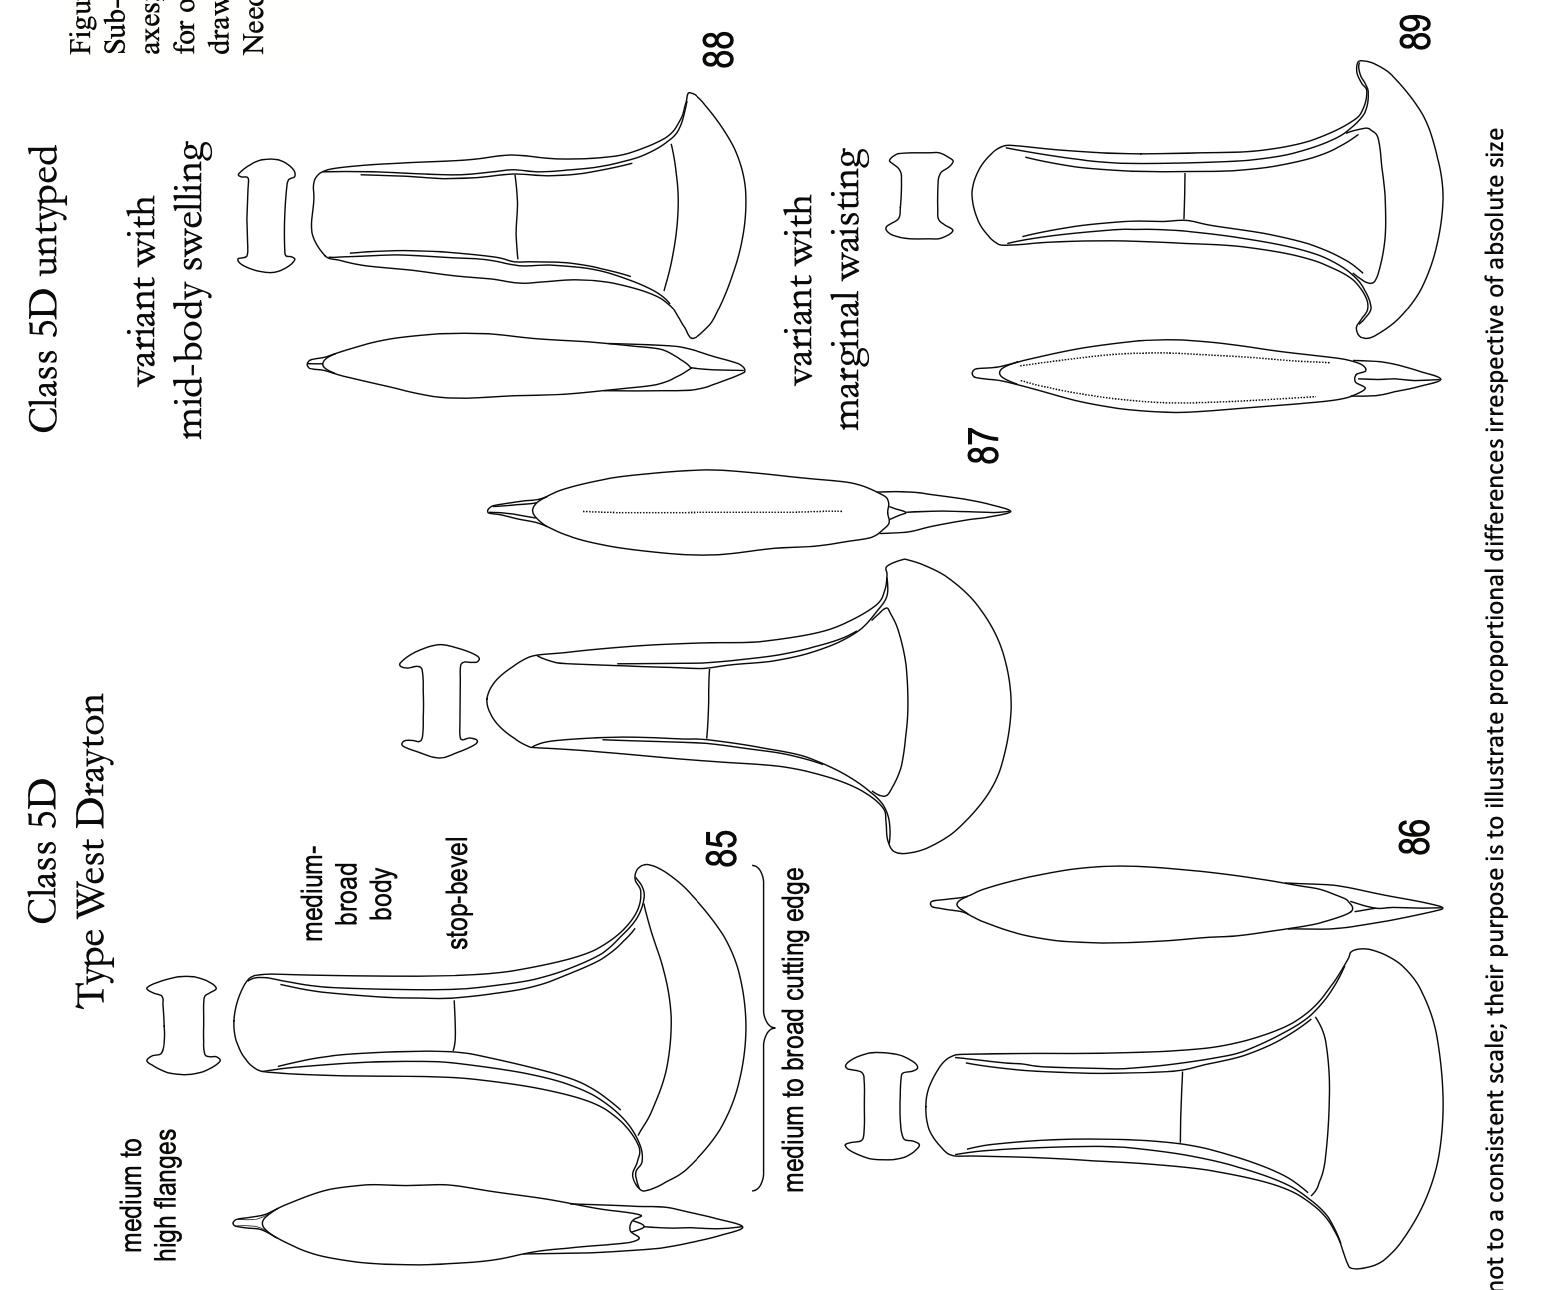
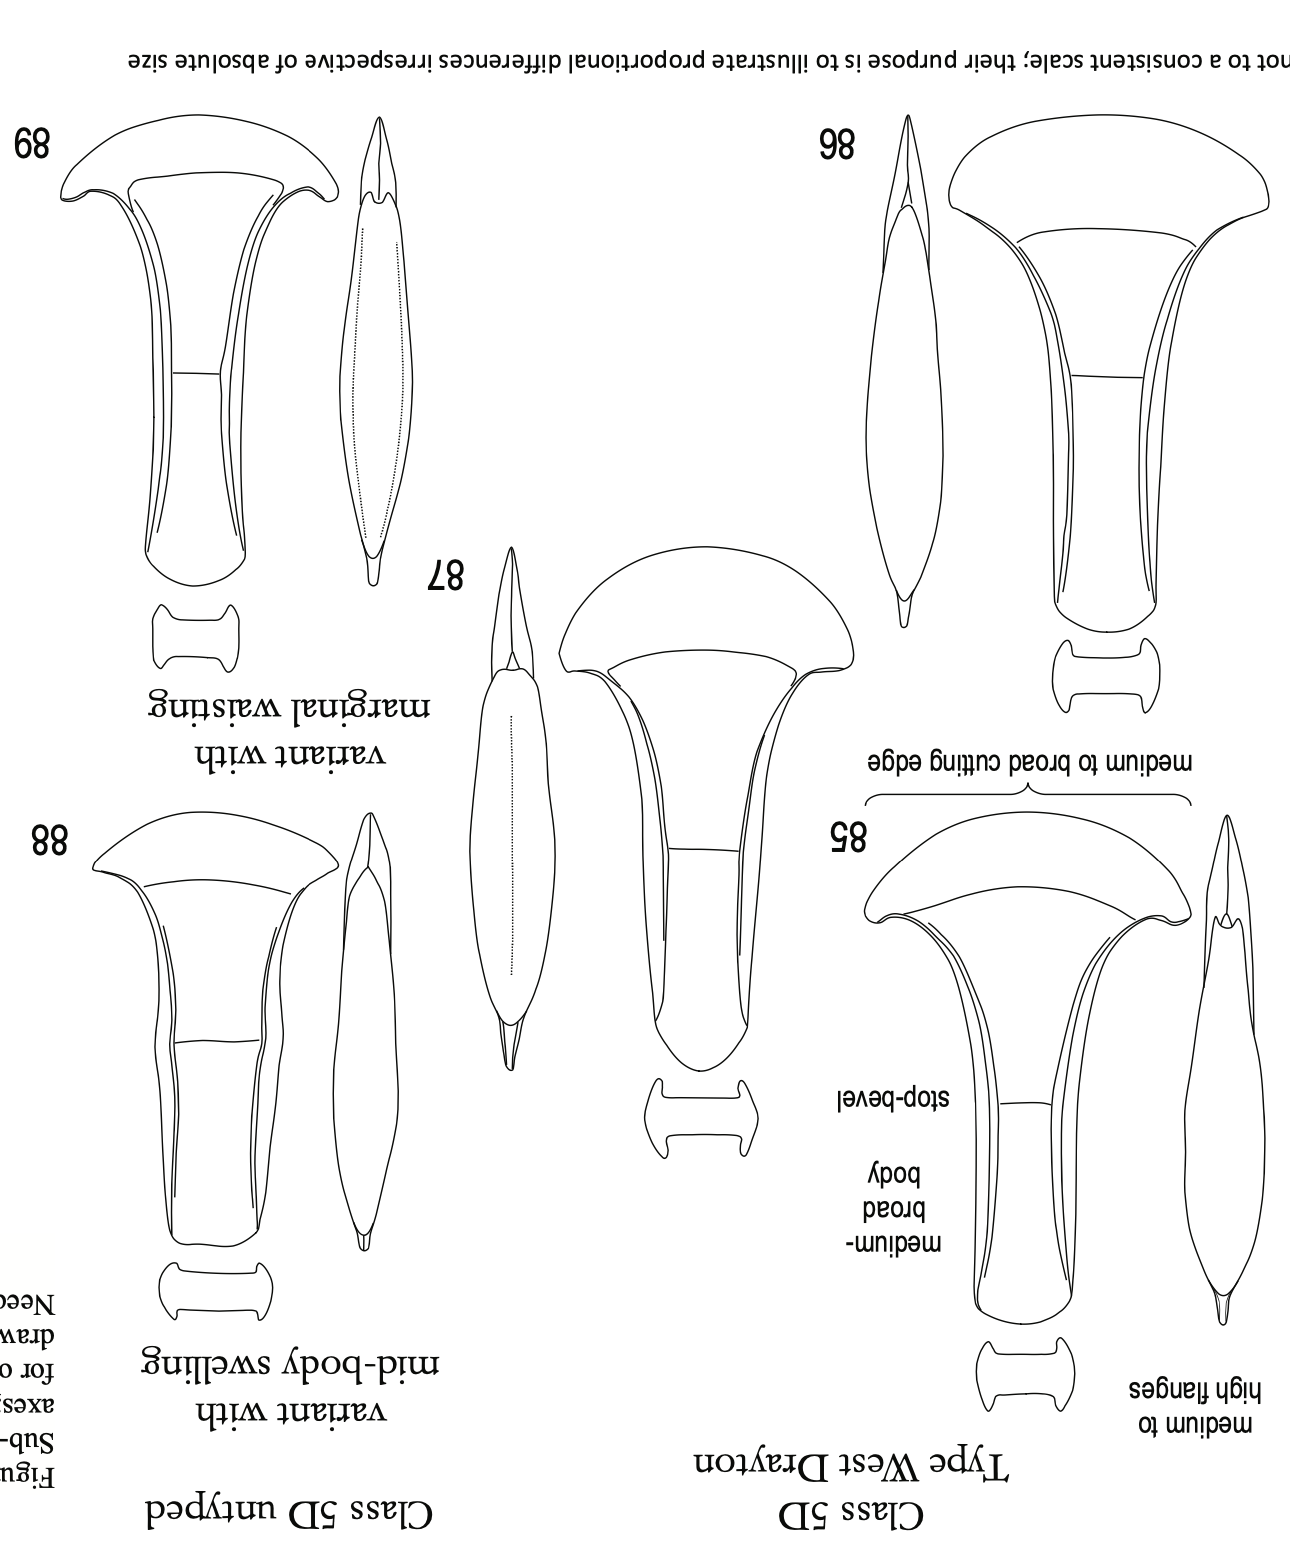
Add labeled measurements figure + fix rotated Needham figure
- Rotated needham_reference.png 90° CCW (was displayed sideways)
- Extracted the paper's own "ImageJ Processing Instructions" Google Doc
  which contains the full Needham measurement definitions (L, LB, WB,
  W2, W3, WE, LC, DE, MO plus derived ratios RWB, RWB', RWE, RDE, EH,
  RW3, RMO, ASC, MRW)
- Built scripts/33_needham_measurements_figure.py — a clean labeled
  schematic showing every measurement line on a Class 5 axe outline,
  with the full definitions table + standard ImageJ features below
- Added as Figure 3d in Methods

Scan-data hunt status:
  - ADS DOI 10.5284/1033102 → recordId 41166 (Cloudflare-protected)
  - Historic England report page 403s
  - 850 GB of raw scan data archived at National Monuments Record Office
    in Swindon; not publicly downloadable
  - Wessex Archaeology/Archaeoptics 2002-03 meshes only embedded (not DL)
  - Sketchfab embed of Stone 53 3D scan is our best accessible version
    (Wessex Archaeology, model 87062394109c44fc99b5cf646b83639c)
  - Full access would need direct contact with rights holders

diff --git a/paper-site/src/app/page.tsx b/paper-site/src/app/page.tsx
@@ -217,6 +217,25 @@ export default function Home() {
               axe typology.
             </figcaption>
           </figure>
+
+          <figure className="d-figure">
+            <Image
+              src="/figures/measurement_definitions.png"
+              alt="Labeled axehead schematic showing all Needham measurement lines (L, LB, WB, W2, W3, WE, LC, DE) plus derived ratios and standard ImageJ dimensionless features"
+              width={1200}
+              height={2000}
+              className="w-full h-auto"
+              style={{ maxWidth: 600, margin: "0 auto", display: "block" }}
+            />
+            <figcaption className="d-figcaption text-center">
+              Figure 3d. The shape descriptors used throughout this paper.
+              Top: Needham 1983 linear measurements labeled on a schematic
+              Class 5 axehead. Bottom: the derived ratios (Needham space)
+              and the standard ImageJ dimensionless features (Circularity,
+              Aspect Ratio, Roundness, Solidity) used by every classifier
+              in §3.
+            </figcaption>
+          </figure>
           <figure className="d-figure">
             <Image
               src="/paper_figures/hafted_axes.png"

diff --git a/scripts/33_needham_measurements_figure.py b/scripts/33_needham_measurements_figure.py
@@ -1,0 +1,158 @@
+"""
+Build a labeled Needham-style axe schematic showing all the measurements
+and ratios used in the paper's analysis.
+
+Definitions from the ImageJ Processing Instructions doc:
+  L     total length
+  LB    length of body
+  WB    width of butt
+  LC    length of chord across the sides
+  LC'   length of chord to MO (maximum offset)
+  WE    width of cutting edge
+  W2    width at middle of body
+  W3    width at 80% of the body
+  DE    blade edge (curvature depth)
+  MO    maximum offset (side curvature)
+
+Derived ratios:
+  RWB  = WB / WE      butt width / edge width
+  RWB' = WB / L       butt / length
+  RWE  = WE / L       edge / length
+  RDE  = DE / WE      edge depth / edge width
+  EH   = (W2-WB)/LB   expansion of haft end
+  RW3  = W3 / LB      relative mid-blade width
+  RMO  = MO / LC      relative max offset
+  ASC  = LC'/LC       asymmetry of side curvature
+  MRW  = (WB+W2+W3)/LB  mean relative width of body
+
+Also standard ImageJ features:
+  Area, Perimeter, Height, Width, Circularity, Aspect Ratio, Roundness, Solidity
+"""
+
+import numpy as np
+import matplotlib.pyplot as plt
+from matplotlib.patches import FancyArrowPatch
+from pathlib import Path
+
+ROOT = Path(__file__).parent.parent
+FIGS = ROOT / "figures"
+
+fig, ax = plt.subplots(figsize=(9, 10))
+
+# Draw a schematic Class 5 flanged bronze axe silhouette
+# All coordinates in an arbitrary unit — data coords 0-100
+axe_pts = np.array([
+    # start at butt (bottom middle), go clockwise
+    [35, 5],   # bottom-left butt
+    [30, 25],  # left side lower body
+    [28, 45],  # left side mid body
+    [24, 65],  # left side upper body
+    [15, 85],  # left cutting-edge corner
+    [10, 92],  # far left of curved cutting edge
+    [50, 100], # top of blade curve (midpoint)
+    [90, 92],  # far right of cutting edge
+    [85, 85],  # right cutting-edge corner
+    [76, 65],  # right side upper body
+    [72, 45],  # right side mid body
+    [70, 25],  # right side lower body
+    [65, 5],   # bottom-right butt
+])
+ax.fill(axe_pts[:, 0], axe_pts[:, 1],
+        color="#e5e0d5", edgecolor="#2c2c2c", linewidth=1.5, zorder=1)
+
+# Measurement labels & lines
+def hline(y, x0=8, x1=92, label=None, color="#b91c1c", lw=1.3):
+    ax.annotate("", xy=(x0, y), xytext=(x1, y),
+                arrowprops=dict(arrowstyle="<->", color=color, lw=lw),
+                zorder=5)
+    if label:
+        ax.text((x0+x1)/2, y, label, ha="center", va="center",
+                fontsize=10, color=color, fontweight="bold",
+                bbox=dict(boxstyle="round,pad=0.2", facecolor="white",
+                          edgecolor="none"), zorder=6)
+
+def vline(x, y0, y1, label=None, color="#b91c1c", lw=1.3):
+    ax.annotate("", xy=(x, y0), xytext=(x, y1),
+                arrowprops=dict(arrowstyle="<->", color=color, lw=lw),
+                zorder=5)
+    if label:
+        ax.text(x, (y0+y1)/2, label, ha="center", va="center",
+                fontsize=10, color=color, fontweight="bold",
+                bbox=dict(boxstyle="round,pad=0.2", facecolor="white",
+                          edgecolor="none"), zorder=6)
+
+# L — total length (left side, tall arrow)
+vline(-3, 5, 100, "L", color="#2c4a70")
+# LB — length of body (bottom to blade-edge start)
+vline(96, 5, 85, "LB", color="#2c4a70")
+# WB — width of butt (bottom)
+hline(3, 35, 65, "WB", color="#b91c1c")
+# W2 — width at middle of body
+hline(45, 28, 72, "W₂", color="#b91c1c")
+# W3 — width at 80% of body
+hline(69, 22, 78, "W₃", color="#b91c1c")
+# WE — width of cutting edge (top of curve base)
+hline(89, 10, 90, "WE", color="#b91c1c")
+# DE — blade edge (curvature depth)
+ax.annotate("", xy=(50, 88), xytext=(50, 100),
+            arrowprops=dict(arrowstyle="<->", color="#7a4b0a", lw=1.3),
+            zorder=5)
+ax.text(53, 94, "DE", fontsize=10, color="#7a4b0a", fontweight="bold",
+        bbox=dict(boxstyle="round,pad=0.2", facecolor="white",
+                  edgecolor="none"), zorder=6)
+# LC — chord across the sides
+ax.plot([15, 85], [85, 85], color="#0f5132", linestyle=":", linewidth=1.5,
+        zorder=4)
+ax.text(50, 82, "LC", ha="center", fontsize=10, color="#0f5132",
+        fontweight="bold",
+        bbox=dict(boxstyle="round,pad=0.2", facecolor="white",
+                  edgecolor="none"), zorder=6)
+
+# Annotation panels
+ax.set_xlim(-15, 110)
+ax.set_ylim(-30, 115)
+ax.set_aspect("equal")
+ax.axis("off")
+
+# Definitions table below
+def_text = (
+    "$\\bf{Linear\\ measurements\\ (from\\ ImageJ)}$\n"
+    "L    — total length (butt to cutting-edge tip)\n"
+    "LB   — length of body\n"
+    "WB   — width of butt\n"
+    "W₂   — width at middle of body\n"
+    "W₃   — width at 80% of body\n"
+    "WE   — width of cutting edge\n"
+    "LC   — chord across the sides (blade base)\n"
+    "LC'  — chord to MO (max offset)\n"
+    "DE   — depth of cutting-edge curve\n"
+    "MO   — maximum side-curvature offset\n\n"
+    "$\\bf{Derived\\ ratios}$\n"
+    "RWB   = WB / WE     butt-to-edge width ratio\n"
+    "RWB'  = WB / L       relative butt width\n"
+    "RWE   = WE / L       relative edge width\n"
+    "RDE   = DE / WE     relative edge curvature\n"
+    "EH    = (W₂−WB)/LB   haft-end expansion\n"
+    "RW₃   = W₃ / LB      relative mid-blade width\n"
+    "RMO   = MO / LC      relative max offset\n"
+    "ASC   = LC' / LC     asymmetry of side curvature\n"
+    "MRW   = (WB+W₂+W₃)/LB   mean relative body width\n\n"
+    "$\\bf{Standard\\ ImageJ\\ dimensionless\\ features}$\n"
+    "Circularity  = 4π·Area / Perimeter²\n"
+    "Aspect Ratio = MajorAxis / MinorAxis (fitted ellipse)\n"
+    "Roundness    = 4·Area / (π·MajorAxis²)\n"
+    "Solidity     = Area / ConvexHullArea\n"
+)
+ax.text(-13, -3, def_text, fontsize=8.5, verticalalignment="top",
+        family="monospace",
+        bbox=dict(boxstyle="round,pad=0.6", facecolor="#f5f5f4",
+                  edgecolor="#d6d3d1", linewidth=0.8))
+
+ax.set_title("Axehead shape descriptors (Needham 1983 / paper's ImageJ pipeline)",
+             fontsize=12, pad=10)
+
+plt.tight_layout()
+plt.savefig(FIGS / "measurement_definitions.png", dpi=200,
+            bbox_inches="tight", facecolor="white")
+plt.close()
+print(f"Wrote {FIGS / 'measurement_definitions.png'}")